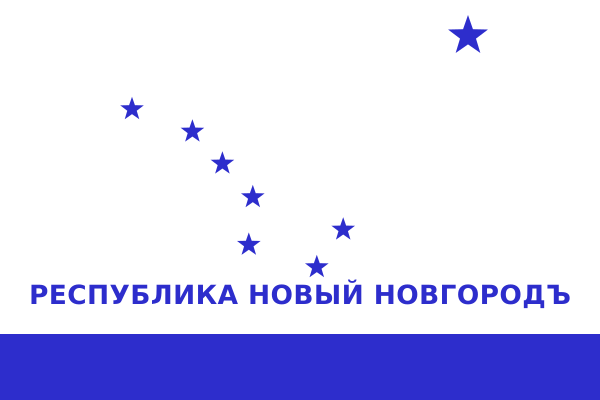
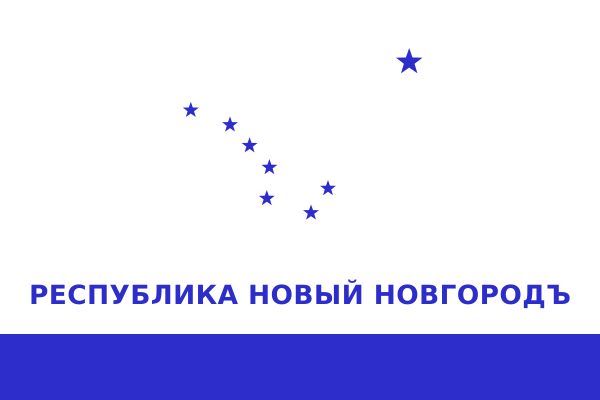
Nowy Nowogród: mniejszy Wielki Wóz
Claude-Session: https://claude.ai/code/session_01PNyJEgjZDVeUSFrp2WbnmN

diff --git a/gfx_koncepty/flagi_nowogrod/generuj_flagi.py b/gfx_koncepty/flagi_nowogrod/generuj_flagi.py
@@ -30,7 +30,7 @@ F={
  # Republika Nowego Nowogrodu (Sitka, po buncie Kompanii): układ w stylu flagi Republiki Kalifornijskiej.
  # Wielki Wóz i Gwiazda Polarna (jak na fladze Alaski) w granacie na bieli, napis w ówczesnej pisowni z jerem, granatowy pas u dołu.
  'nowy_nowogrod': svg(f'<rect width="300" height="200" fill="{WHITE}"/><rect y="167" width="300" height="33" fill="#2d2dcc"/>'
-                      +star(66.0,54.6,6.2,'#2d2dcc')+star(96.2,65.8,6.2,'#2d2dcc')+star(111.2,81.8,6.2,'#2d2dcc')+star(126.4,98.6,6.2,'#2d2dcc')+star(124.4,122.4,6.2,'#2d2dcc')+star(158.4,133.6,6.2,'#2d2dcc')+star(171.6,114.8,6.2,'#2d2dcc')+star(234.0,18.0,10.5,'#2d2dcc')
+                      +star(95.4,55.1,4.2,'#2d2dcc')+star(115.0,62.4,4.2,'#2d2dcc')+star(124.8,72.8,4.2,'#2d2dcc')+star(134.7,83.7,4.2,'#2d2dcc')+star(133.4,99.2,4.2,'#2d2dcc')+star(155.5,106.4,4.2,'#2d2dcc')+star(164.0,94.2,4.2,'#2d2dcc')+star(204.6,31.0,7,'#2d2dcc')
                       +'<text x="150" y="152" font-family="DejaVu Sans" font-weight="bold" font-size="13.2" fill="#2d2dcc" text-anchor="middle" letter-spacing="0.2">РЕСПУБЛИКА НОВЫЙ НОВГОРОДЪ</text>'),
 }
 for k,v in F.items():
